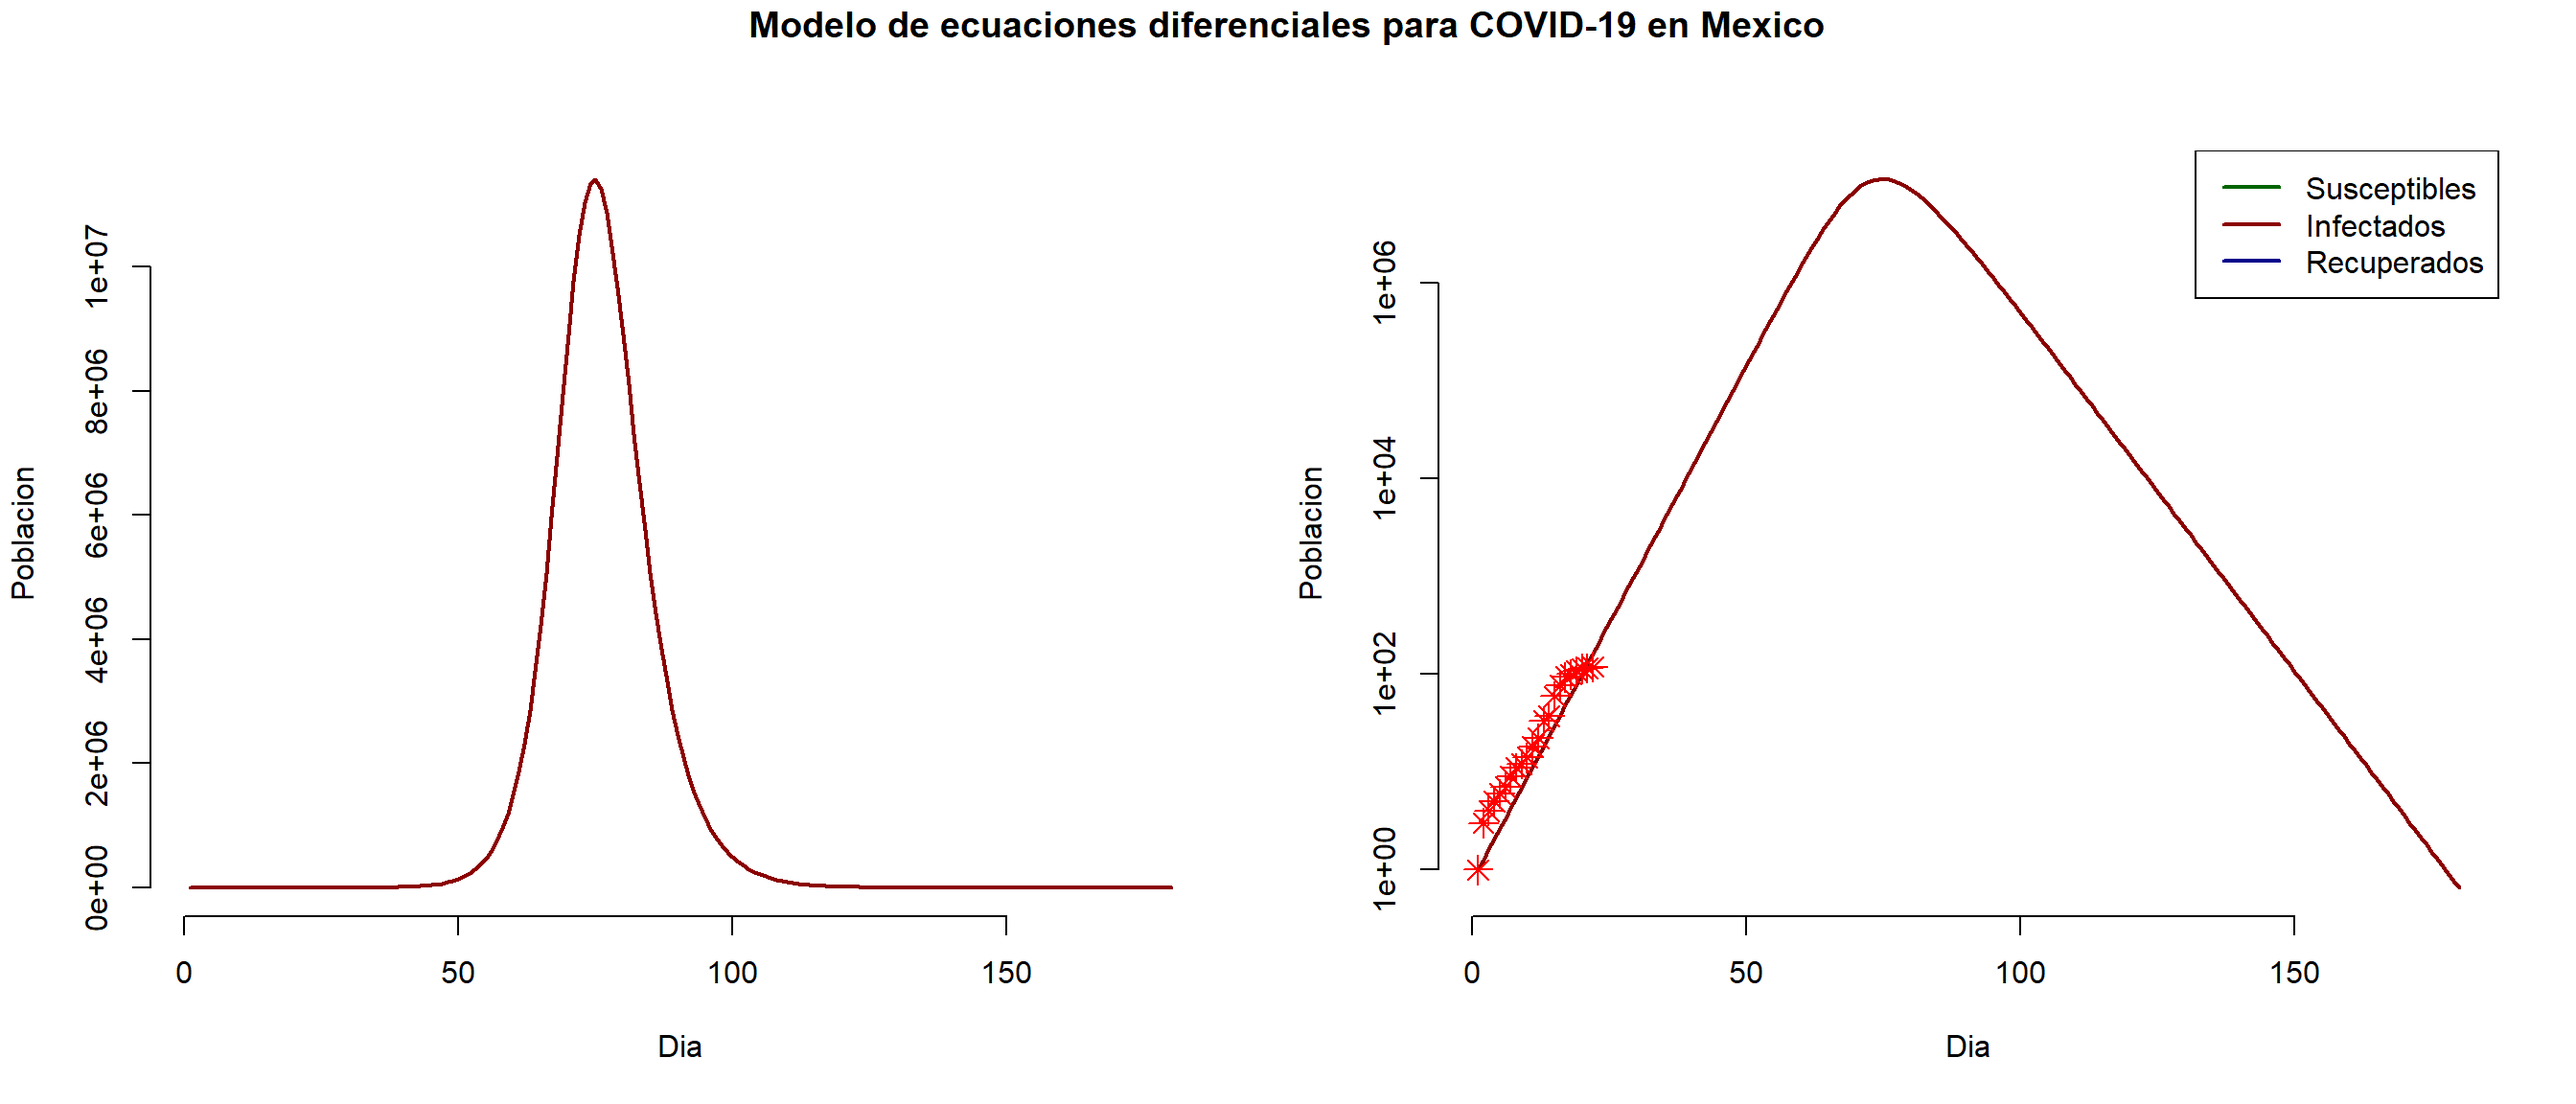
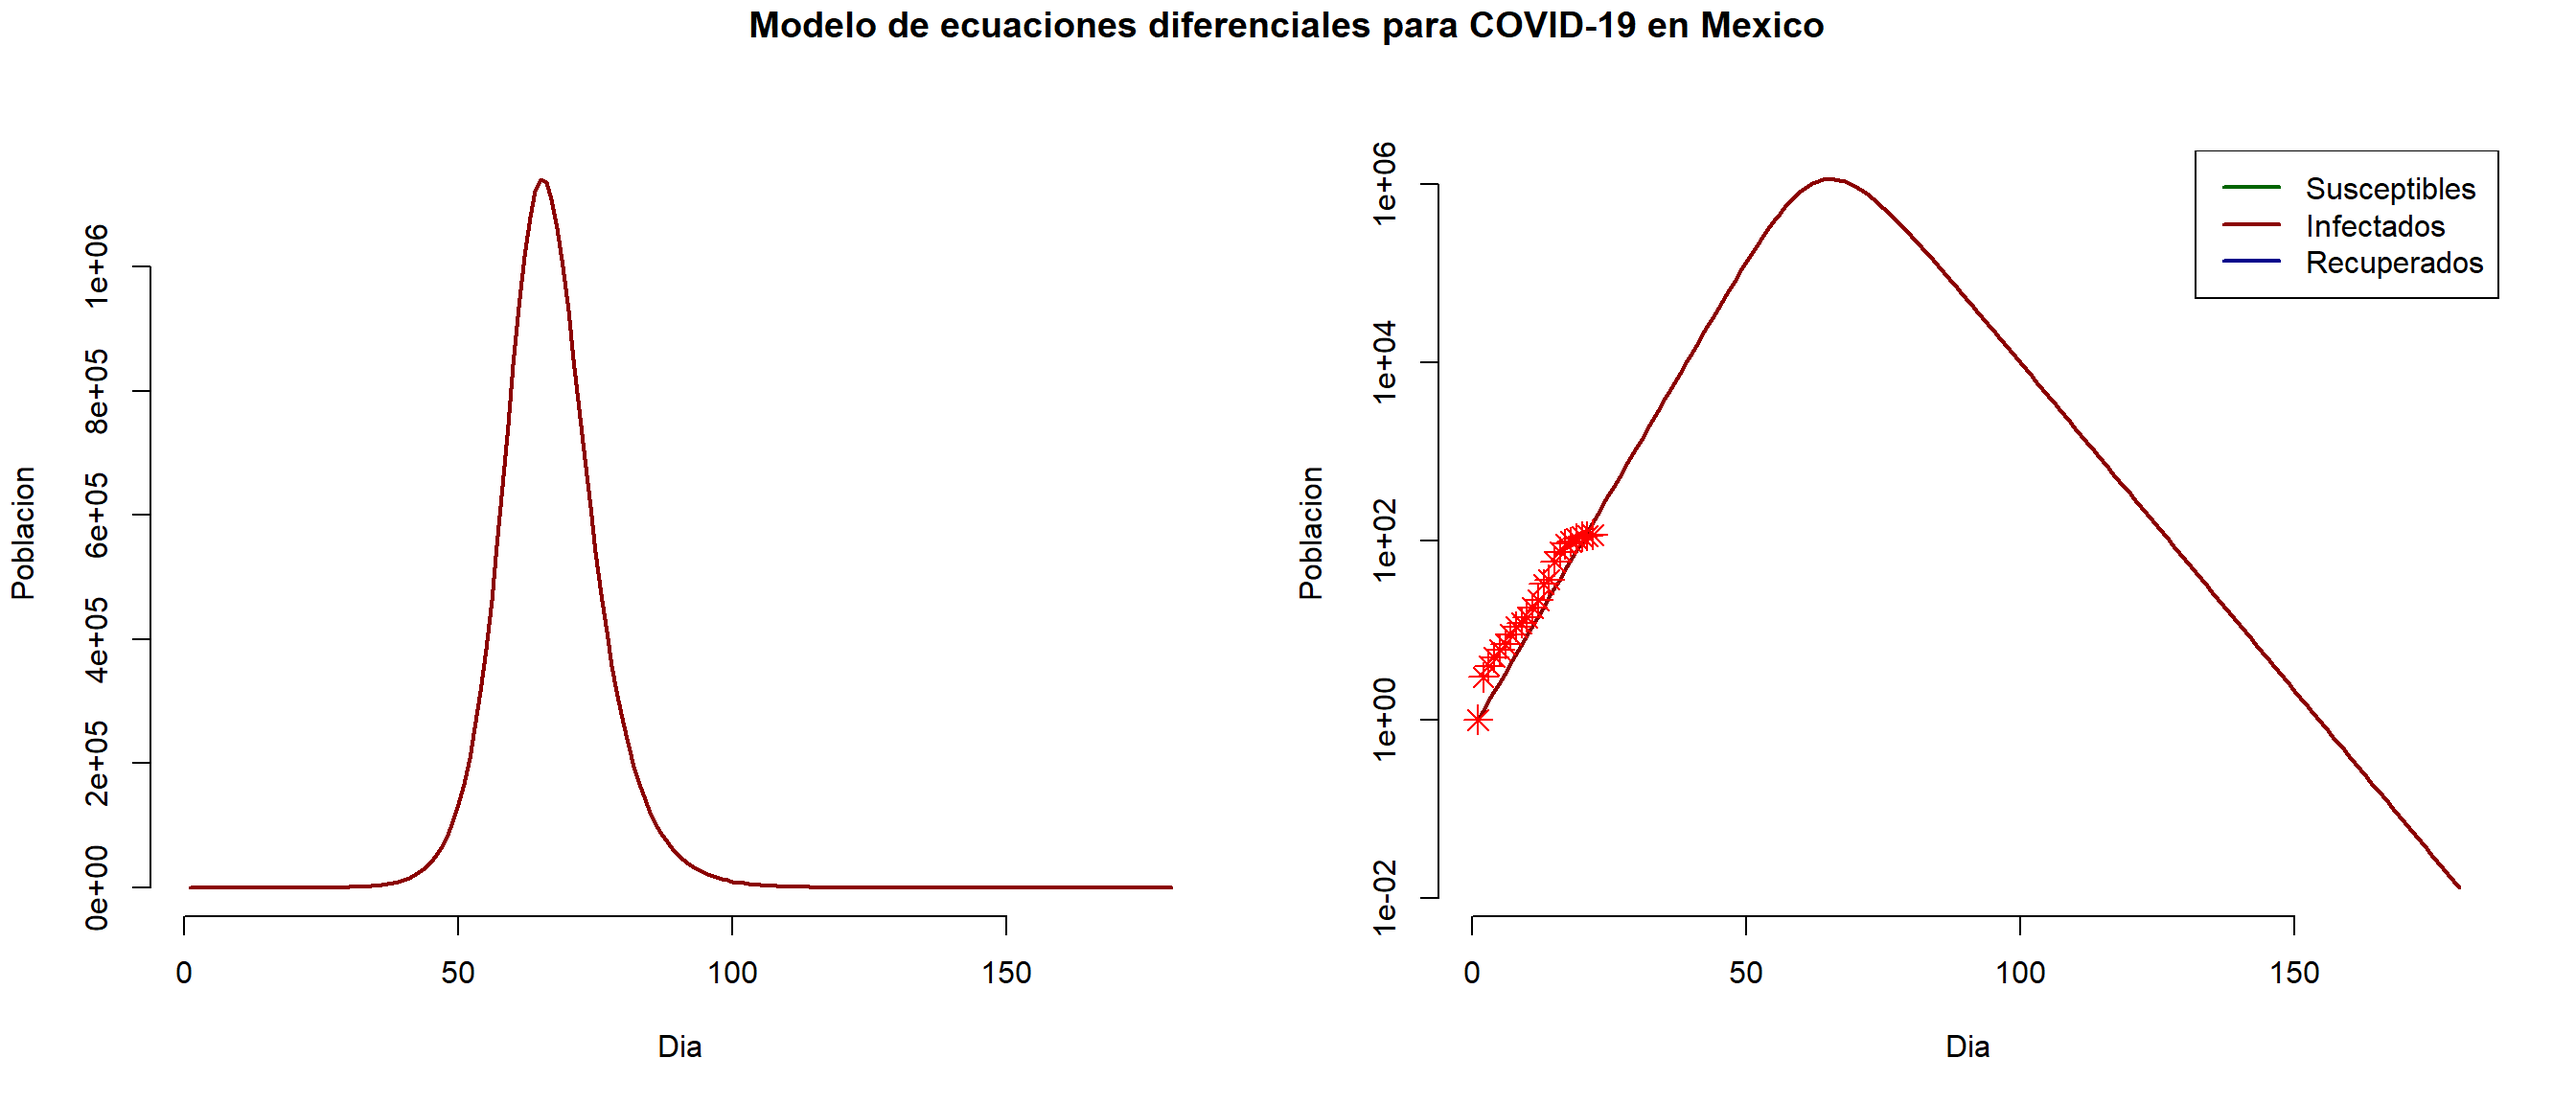
fixed typo

diff --git a/Estimacion_R0.html b/Estimacion_R0.html
@@ -341,11 +341,11 @@ $(document).ready(function () {
 Usando los datos de el numero de casos, podemos usar optimizadores, como por ejemplo uno que minimize la suma de los cuadrados (Ecuacion a continuacion), para encontrar los parametros de <span class="math inline">\(\beta\)</span> y <span class="math inline">\(\gamma\)</span> para nuestro modelo que tengan un comportamiento mas parecido a los datos observados.</p>
 <p><span class="math display">\[RSS(\beta, \gamma) = \sum_t\left(I(t)-\hat{I}(t)\right)^2\]</span> En donde <span class="math inline">\(I(t)\)</span> es el numero de casos observados y <span class="math inline">\(\hat{I}(t)\)</span> es el numero de casso que nuestro modelo predice.<br />
 Una vez que encontremos esos valores para nuestros parametros <span class="math inline">\(\beta\)</span> y <span class="math inline">\(\gamma\)</span>, podemos usarlos en un modelo de simulacion y realizar predicciones sobre la epidemia.</p>
-<p>Usando los datos proporcionados por secretaria de salud logramos una <strong>Buena Convergencia del Modelo</strong>, y los parametros estimados son: <span class="math inline">\(\beta=\)</span> 0.6211849, <span class="math inline">\(\gamma=\)</span> 0.3788151 resultando en un<span class="math inline">\(R_0\)</span> de 1.6398101</p>
+<p>Usando los datos proporcionados por secretaria de salud logramos una <strong>Buena Convergencia del Modelo</strong>, y los parametros estimados son: <span class="math inline">\(\beta=\)</span> 0.6211862, <span class="math inline">\(\gamma=\)</span> 0.378814 resultando en un <span class="math inline">\(R_0\)</span> de 1.6398186. <span class="math inline">\(R_0\)</span> es un valor utilizado frequentemente para describir el impacto de una enfermedad en la poblacion. Un <span class="math inline">\(R_0 &gt; 1\)</span> significa que la enfermedad causara una epidemia en la poblacion y un <span class="math inline">\(R_0 &lt; 0\)</span> significa que no habra epidemia.</p>
 <p>A continuacion usamos esos parametros estimados para nuestras ecuaciones por un periodo de 150 dias.<br />
 En el grafico del lado derecho vemos el la poblacion para cada uno de nuestros compartimentos a traves del periodo de tiempo que simulamos, y del lado derecho vemos el logaritmos de los valores de cada compartimento, Los asteriscos rojos en el grafico del lado derecho representan los casos reales reportados por secretaria de salud, esto nos ayuda a visualizar que tan bien nuestro modelo se ajusta a los datos reales.</p>
 <p><img src="Estimacion_R0_files/figure-html/unnamed-chunk-5-1.png" width="1344" /></p>
-<p>Finalmente podemos obtener una extrapolacion de la epidemia. De acuerdo a la extrapolacion, el dia esperado del pico de la epidemia es el dia <strong>75</strong> despues de haber empezado la epidemia con un estimado de 1.141306110^{7} infectados.</p>
+<p>Finalmente podemos obtener una extrapolacion de la epidemia. De acuerdo a la extrapolacion, el dia esperado del pico de la epidemia es el dia <strong>65</strong> despues de haber empezado la epidemia con un estimado de 1.140996510^{6} infectados, lo cual puede que sea no muy realista por algunos aspectos que comentaremos a continuacion.</p>
 <div id="consideraciones-para-este-tipo-de-modelos." class="section level3">
 <h3>Consideraciones para este tipo de modelos.</h3>
 <p>Este tipo de modelos asume que existe una probabilidad de contactar con un infectado para toda la poblacion, lo cual no es algo cierto en muchos casos. La transmision de enfermedades a nivel individual, frequentemente se ve influida por la red de contactos de cada persona y sabemos que la estructura de esa red de contactos depende de caracteristicas individuales de cada persona, tales como su profesion o ubicacion geografica, algo que en este modelo no estamos representando.<br />
